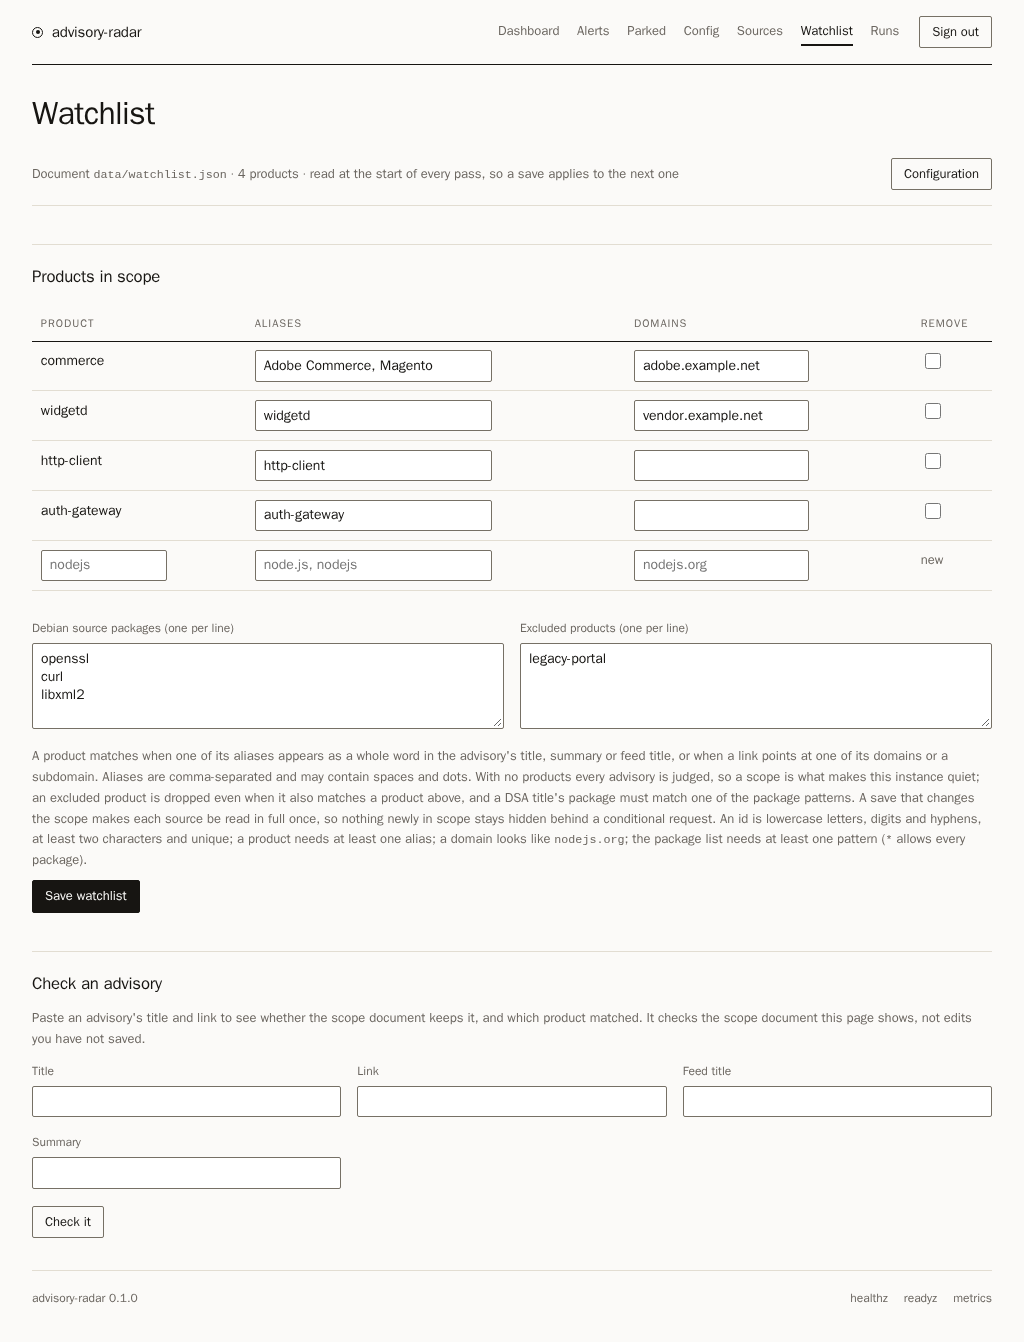
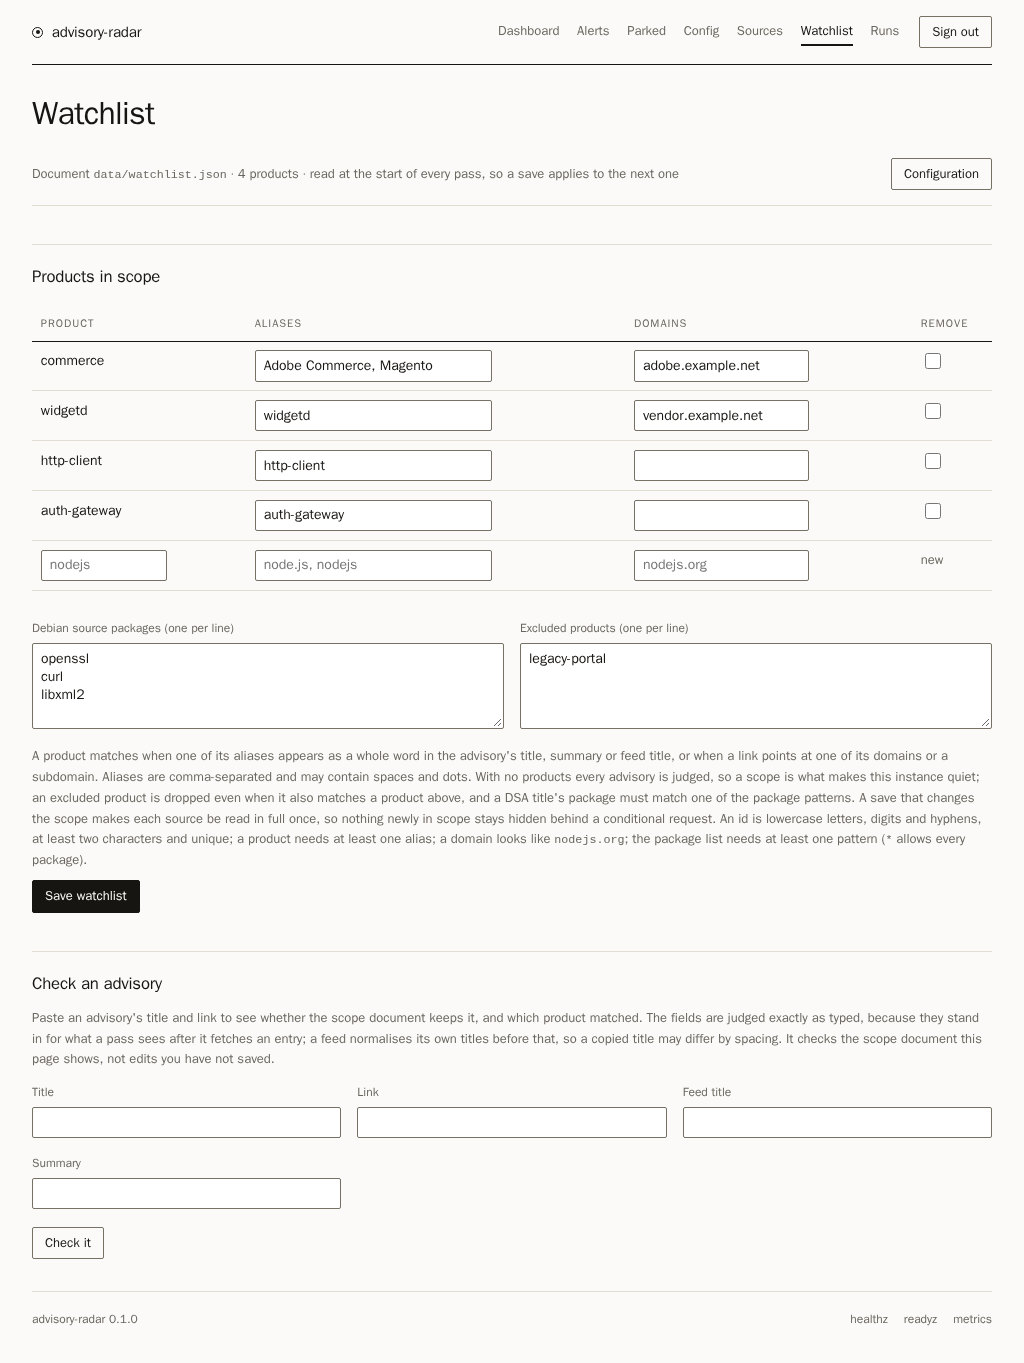
fix(watchlist): one file for both readers, and a preview that judges its input
Two disagreements between what the page shows and what a pass does.

A save creates the resolved file, so a read that kept the configured spelling
could keep failing after a successful save: `/data/missing/../scope.json`
resolves to a file the save creates, while the filesystem cannot traverse
`missing` on the way to it -- the page would report "saved" and the pass would
never read it. Reads resolve too now, one identity for one name, and a name
that cannot be resolved is refused as an unreadable document rather than
raising. The configuration strip still shows the name the operator wrote.

The preview trimmed the advisory fields, which matched neither ingestion path:
an RSS title is normalised before the pass sees it, and a webhook entry keeps
its own text. It now judges the fields as typed -- the shape a webhook entry
carries -- and says so on the page, with a test that compares the preview's
verdict against `webhook_item_from_payload` for the same title instead of
against a hand-built Item.

diff --git a/src/advisory_radar/web.py b/src/advisory_radar/web.py
@@ -3146,10 +3146,8 @@ def create_app(
         fingerprint = form_fingerprint(document)
         fingerprint_field = f"<input type='hidden' name='fingerprint' value='{fingerprint}'>"
         try:
-            scope_link = (
-                f"<a href='/watchlist'><code>{esc(watchlist.active_path(cfg.watchlist_path, cfg.state_path))}"
-                "</code></a>"
-            )
+            scope_name = watchlist.display_path(cfg.watchlist_path, cfg.state_path)
+            scope_link = f"<a href='/watchlist'><code>{esc(scope_name)}</code></a>"
         except SourceError as exc:
             # The document cannot even be inspected. Naming why is better than failing the whole page: every other
             # setting here still has to be editable, and the message is the one /watchlist and a pass would show.
@@ -3278,8 +3276,10 @@ def create_app(
         return (
             "<h2>Check an advisory</h2>"
             "<p class='muted small'>Paste an advisory's title and link to see whether the scope document keeps "
-            "it, and which product matched. It checks the scope document this page shows, not edits you have "
-            "not saved.</p>"
+            "it, and which product matched. The fields are judged exactly as typed, because they stand in for "
+            "what a pass sees after it fetches an entry; a feed normalises its own titles before that, so a "
+            "copied title may differ by spacing. It checks the scope document this page shows, not edits you "
+            "have not saved.</p>"
             "<form method='get' action='/watchlist'>"
             "<input type='hidden' name='preview' value='1'>"
             f"<div class='fields'>{fields}</div>"
@@ -3410,7 +3410,9 @@ def create_app(
         if saved is not None:
             notices += _notice(f"Scope <code>{esc(saved)}</code> saved. The next pass reads it.", "ok")
         try:
-            exists = watchlist.present(target)
+            # Read at the resolved name: it is the file a save creates, so the page and the pass agree on which
+            # document they are talking about even when the configured name has a ``..`` the filesystem cannot walk.
+            read_at, exists = watchlist.resolve_document(target)
         except SourceError as exc:
             # The path cannot even be inspected (a directory without the search bit, an I/O error). Answering
             # "absent" here would show the permissive default while the pass failed on the same path.
@@ -3422,7 +3424,7 @@ def create_app(
             return watchlist_scope_page(request, target, exists=True, notices=notices)
         if exists:
             try:
-                document = watchlist.read_watchlist(target)
+                document = watchlist.read_watchlist(read_at)
             except SourceError as exc:
                 # A document that exists but does not read as a watchlist: naming it is the only honest answer,
                 # and an editor over it would rewrite a file this program does not understand.
@@ -3489,7 +3491,7 @@ def create_app(
         cfg = runtime.cfg
         target = watchlist.editable_path(cfg.watchlist_path, cfg.state_path)
         try:
-            exists = watchlist.present(target)
+            exists = watchlist.present(watchlist.document_path(target))
         except SourceError:
             # Uninspectable: the save below answers with the same message, and this page must not also claim the
             # document is missing.

diff --git a/src/advisory_radar/watchlist.py b/src/advisory_radar/watchlist.py
@@ -155,6 +155,32 @@ def present(path: Path) -> bool:
     return True
 
 
+def document_path(path: Path) -> Path:
+    """The file a name points at: one identity, whatever ``..`` or a link in the name says.
+
+    A save creates the resolved file, so a read that kept the configured spelling could keep failing after a
+    successful save -- ``/data/missing/../scope.json`` is the shape that exposes it, because the filesystem cannot
+    traverse ``missing`` even though the target it normalises to is fine. Resolving both is what makes the page
+    and the pass agree on which file is the document.
+    """
+    try:
+        return path.resolve()
+    except (OSError, ValueError) as exc:  # a link loop, an embedded NUL
+        raise SourceError(f"watchlist {path} is not a usable path: {exc}") from exc
+
+
+def resolve_document(path: Path) -> tuple[Path, bool]:
+    """The file a name points at, and whether that is a document rather than an entry with nothing behind it.
+
+    A link that points at nothing counts as present: it is the operator's name for a file, and creating its target
+    would make the link point at a new document instead of reporting that the one it named is gone.
+    """
+    resolved = document_path(path)
+    if present(resolved):
+        return resolved, True
+    return resolved, path.is_symlink()
+
+
 def active_path(configured: Path | None, state_path: Path) -> Path:
     """The document a pass reads: the configured one, the saved one beside the state, else the packaged default.
 
@@ -162,9 +188,20 @@ def active_path(configured: Path | None, state_path: Path) -> Path:
     must fail the pass, because reading the packaged default instead would silently judge every advisory.
     """
     if configured is not None:
-        return configured
+        return document_path(configured)
     beside = state_path.with_name(WATCHLIST_NAME)
-    return beside if present(beside) else DEFAULT_DOCUMENT
+    return document_path(beside) if present(beside) else document_path(DEFAULT_DOCUMENT)
+
+
+def display_path(configured: Path | None, state_path: Path) -> Path:
+    """The name to show a reader: what the operator wrote, once it is known to resolve to a file at all.
+
+    A page shows the name, not the file behind it: ``watchlist: /data/scope.json`` is the useful sentence, and the
+    resolved path is an implementation detail of how a save finds the same file. A name that cannot be used is an
+    error here, and the page that shows it says so instead.
+    """
+    active_path(configured, state_path)
+    return editable_path(configured, state_path)
 
 
 def digest(document: object) -> str:

diff --git a/tests/test_watchlist_admin.py b/tests/test_watchlist_admin.py
@@ -17,7 +17,7 @@ from pathlib import Path
 import pytest
 from fastapi.testclient import TestClient
 
-from advisory_radar import pipeline, watchlist
+from advisory_radar import core, pipeline, watchlist
 from advisory_radar.runtime import Runtime
 from advisory_radar.sources import RssSource
 from advisory_radar.web import create_app
@@ -922,3 +922,38 @@ def test_the_preview_judges_the_text_it_was_given(tmp_path):
         params={"preview": "1", "title": "DSA-6104-1 openssl - security update", "link": "https://lists.debian.org/x"},
     )
     assert "In scope" in clean.text
+
+
+def test_a_save_creates_the_file_the_pass_will_read(tmp_path):
+    """``missing/../scope.json`` resolves to a real file: a save must leave the pass able to read that file."""
+    configured = tmp_path / "missing" / ".." / "scope.json"
+    client, runtime = make_client(tmp_path, configured)
+    sign_in(client)
+    csrf, fingerprint, text = scope_form(client)
+    assert "not created yet" in text
+    response = submit(client, csrf, fingerprint, **{"new:id": "php", "new:aliases": "php", "debian_packages": "*"})
+    assert response.status_code == 303
+    assert (tmp_path / "scope.json").exists()
+    policy = watchlist.load_policy(watchlist.active_path(runtime.cfg.watchlist_path, runtime.cfg.state_path))
+    assert [product.id for product in policy.products] == ["php"], "the pass reads what the save created"
+    assert "not created yet" not in client.get("/watchlist").text
+
+
+def test_the_preview_matches_what_a_webhook_entry_is_judged_on(tmp_path):
+    """A webhook entry keeps its text, so the preview and that ingestion path must reach the same verdict."""
+    from advisory_radar.sources import webhook_item_from_payload
+
+    watch = write_scope(tmp_path / "scope.json", products=[], debian_source_packages=["openssl"])
+    client, _ = make_client(tmp_path, watch)
+    sign_in(client)
+    title = " DSA-6104-1 openssl - security update"
+    entry = webhook_item_from_payload({"title": title, "link": "https://lists.debian.org/x", "guid": "g"})
+    assert entry is not None
+    item = core.Item(
+        entry["guid"], entry["title"], entry["link"], entry["summary"], None, (), source_title=entry["source_title"]
+    )
+    policy = watchlist.load_policy(watch)
+    page = client.get("/watchlist", params={"preview": "1", "title": title, "link": item.link})
+    reason = core.filter_reason(item, policy)
+    assert ("Out of scope" in page.text) is bool(reason), "the page and the entry agree on the verdict"
+    assert "judged exactly as typed" in page.text, "the page says what its input stands for"

diff --git a/tests/test_watchlist.py b/tests/test_watchlist.py
@@ -319,7 +319,11 @@ def test_a_broken_link_is_a_present_document_not_a_missing_one(tmp_path):
     link = state_path.with_name("watchlist.json")
     link.parent.mkdir(parents=True)
     link.symlink_to(tmp_path / "gone.json")
-    assert active_path(None, state_path) == link
+    # The name resolves to the file it was meant to be; that file is what is missing, and the link still counts as
+    # a document rather than as an empty slot the page could create.
+    target = (tmp_path / "gone.json").resolve()
+    assert active_path(None, state_path) == target
+    assert watchlist.resolve_document(link) == (target, True)
     with pytest.raises(SourceError, match="cannot be read"):
         read_watchlist(active_path(None, state_path))
 

diff --git a/README.md b/README.md
@@ -80,7 +80,9 @@ file.
 
 To check a rule before relying on it, paste an advisory's title and link into the page's
 *Check an advisory* form: it answers in scope or out of scope, names the products that
-matched, and is the same match and the same reason the pass uses.
+matched, and is the same match and the same reason the pass uses. It judges the text exactly
+as typed — a webhook entry is judged on exactly that text, while a feed normalises its own
+titles and summaries first, so a copied title can differ by spacing.
 
 ### Risk thresholds
 
